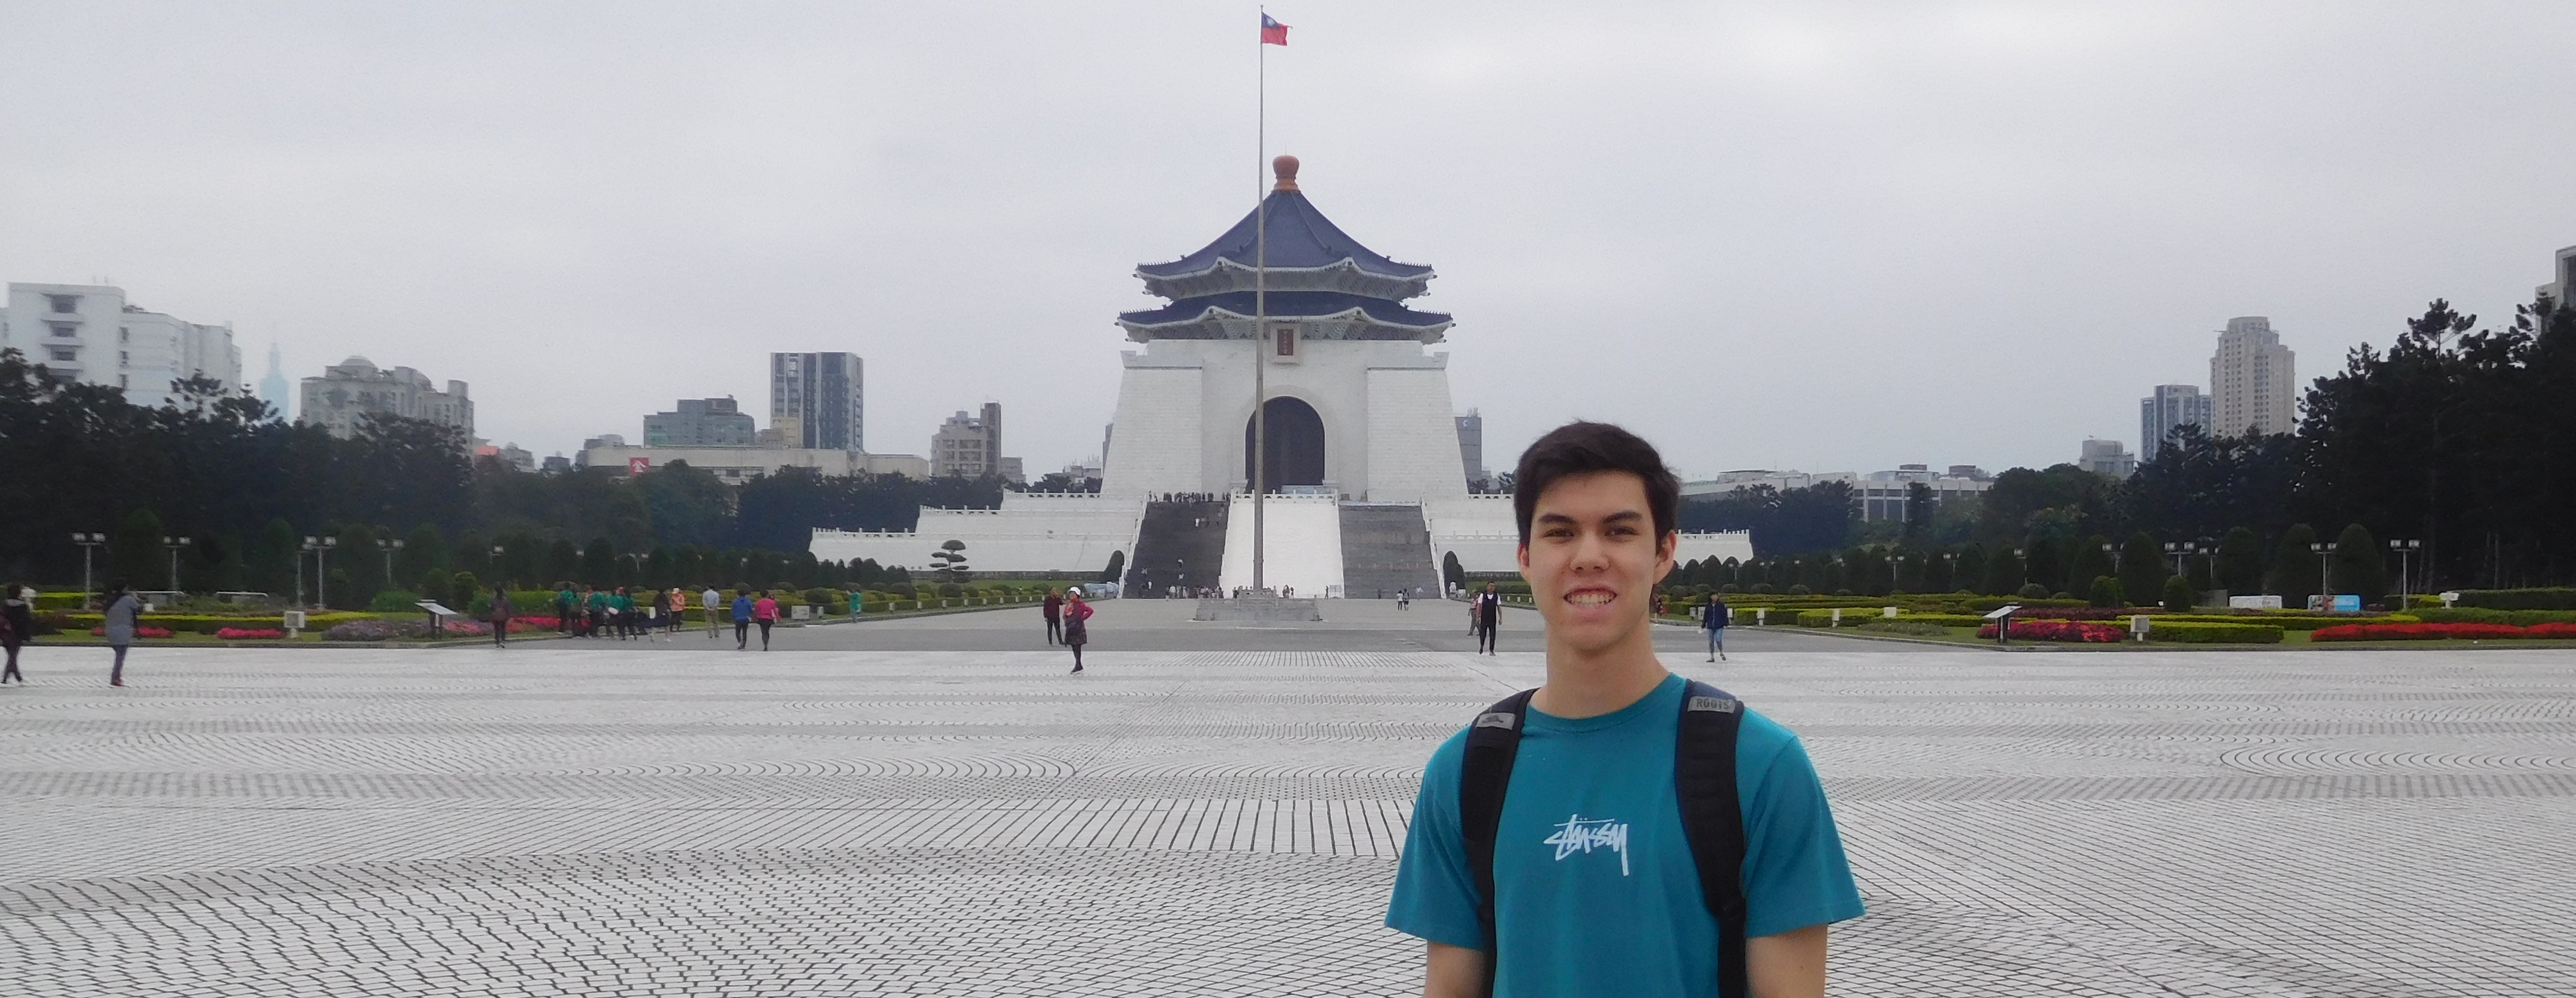
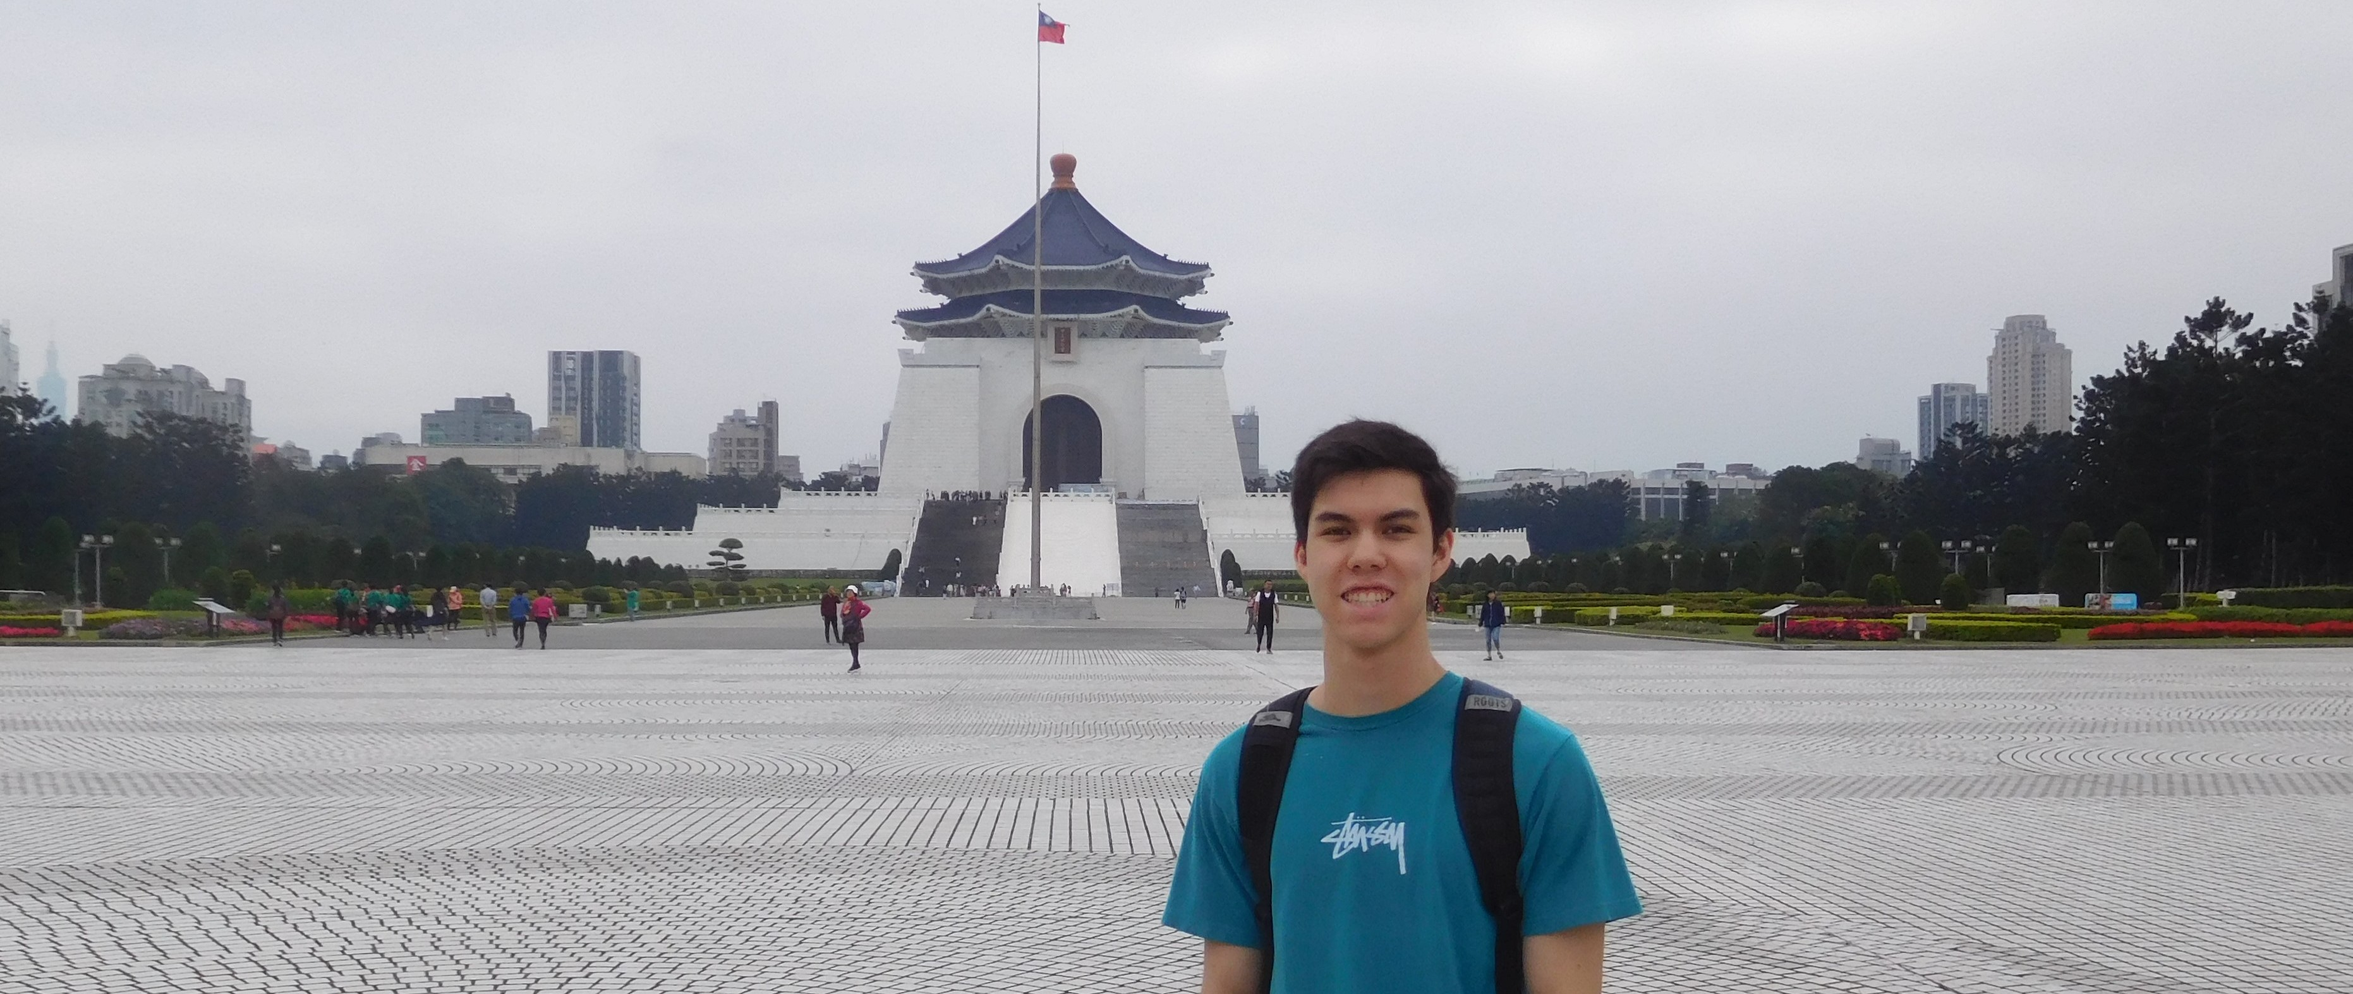
Update images

diff --git a/styles.css b/styles.css
@@ -130,7 +130,7 @@ body {
 
 #bg-image {
     width: 100%;
-    height: 90vh;
+    height: 100vh;
     background-image: url('images/keaton_taiwan.JPG');
     background-position: center center;
     background-size: cover;
